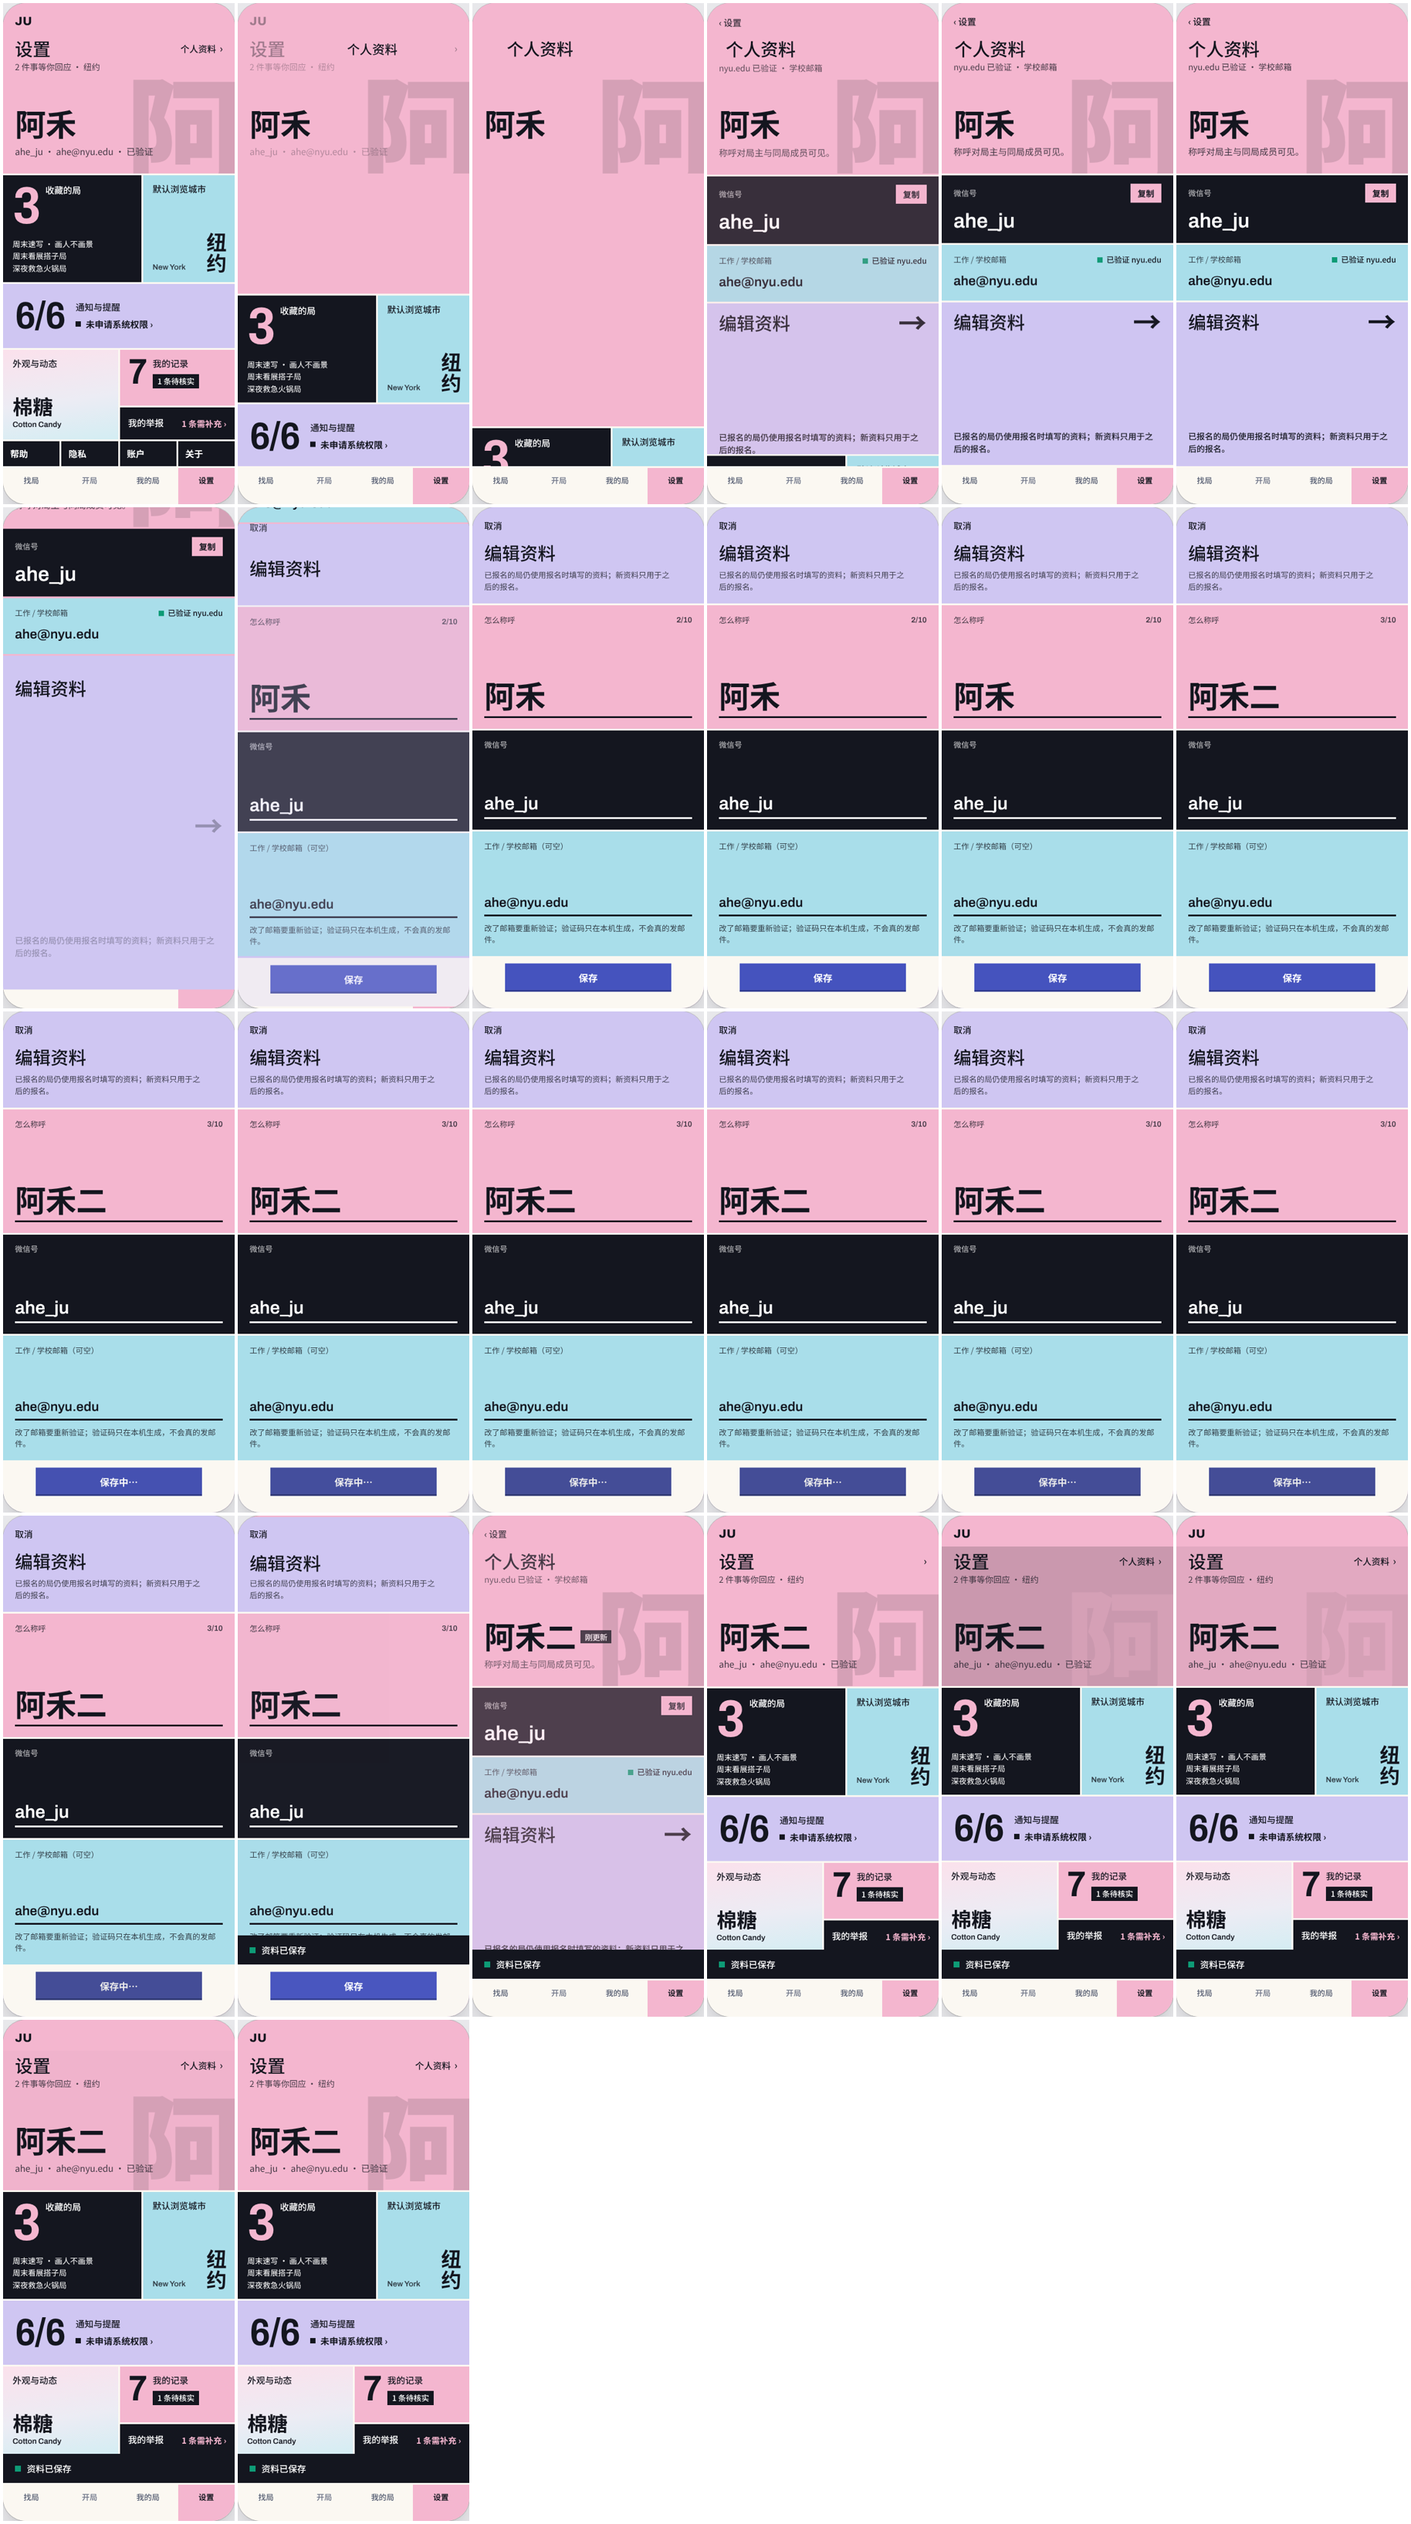
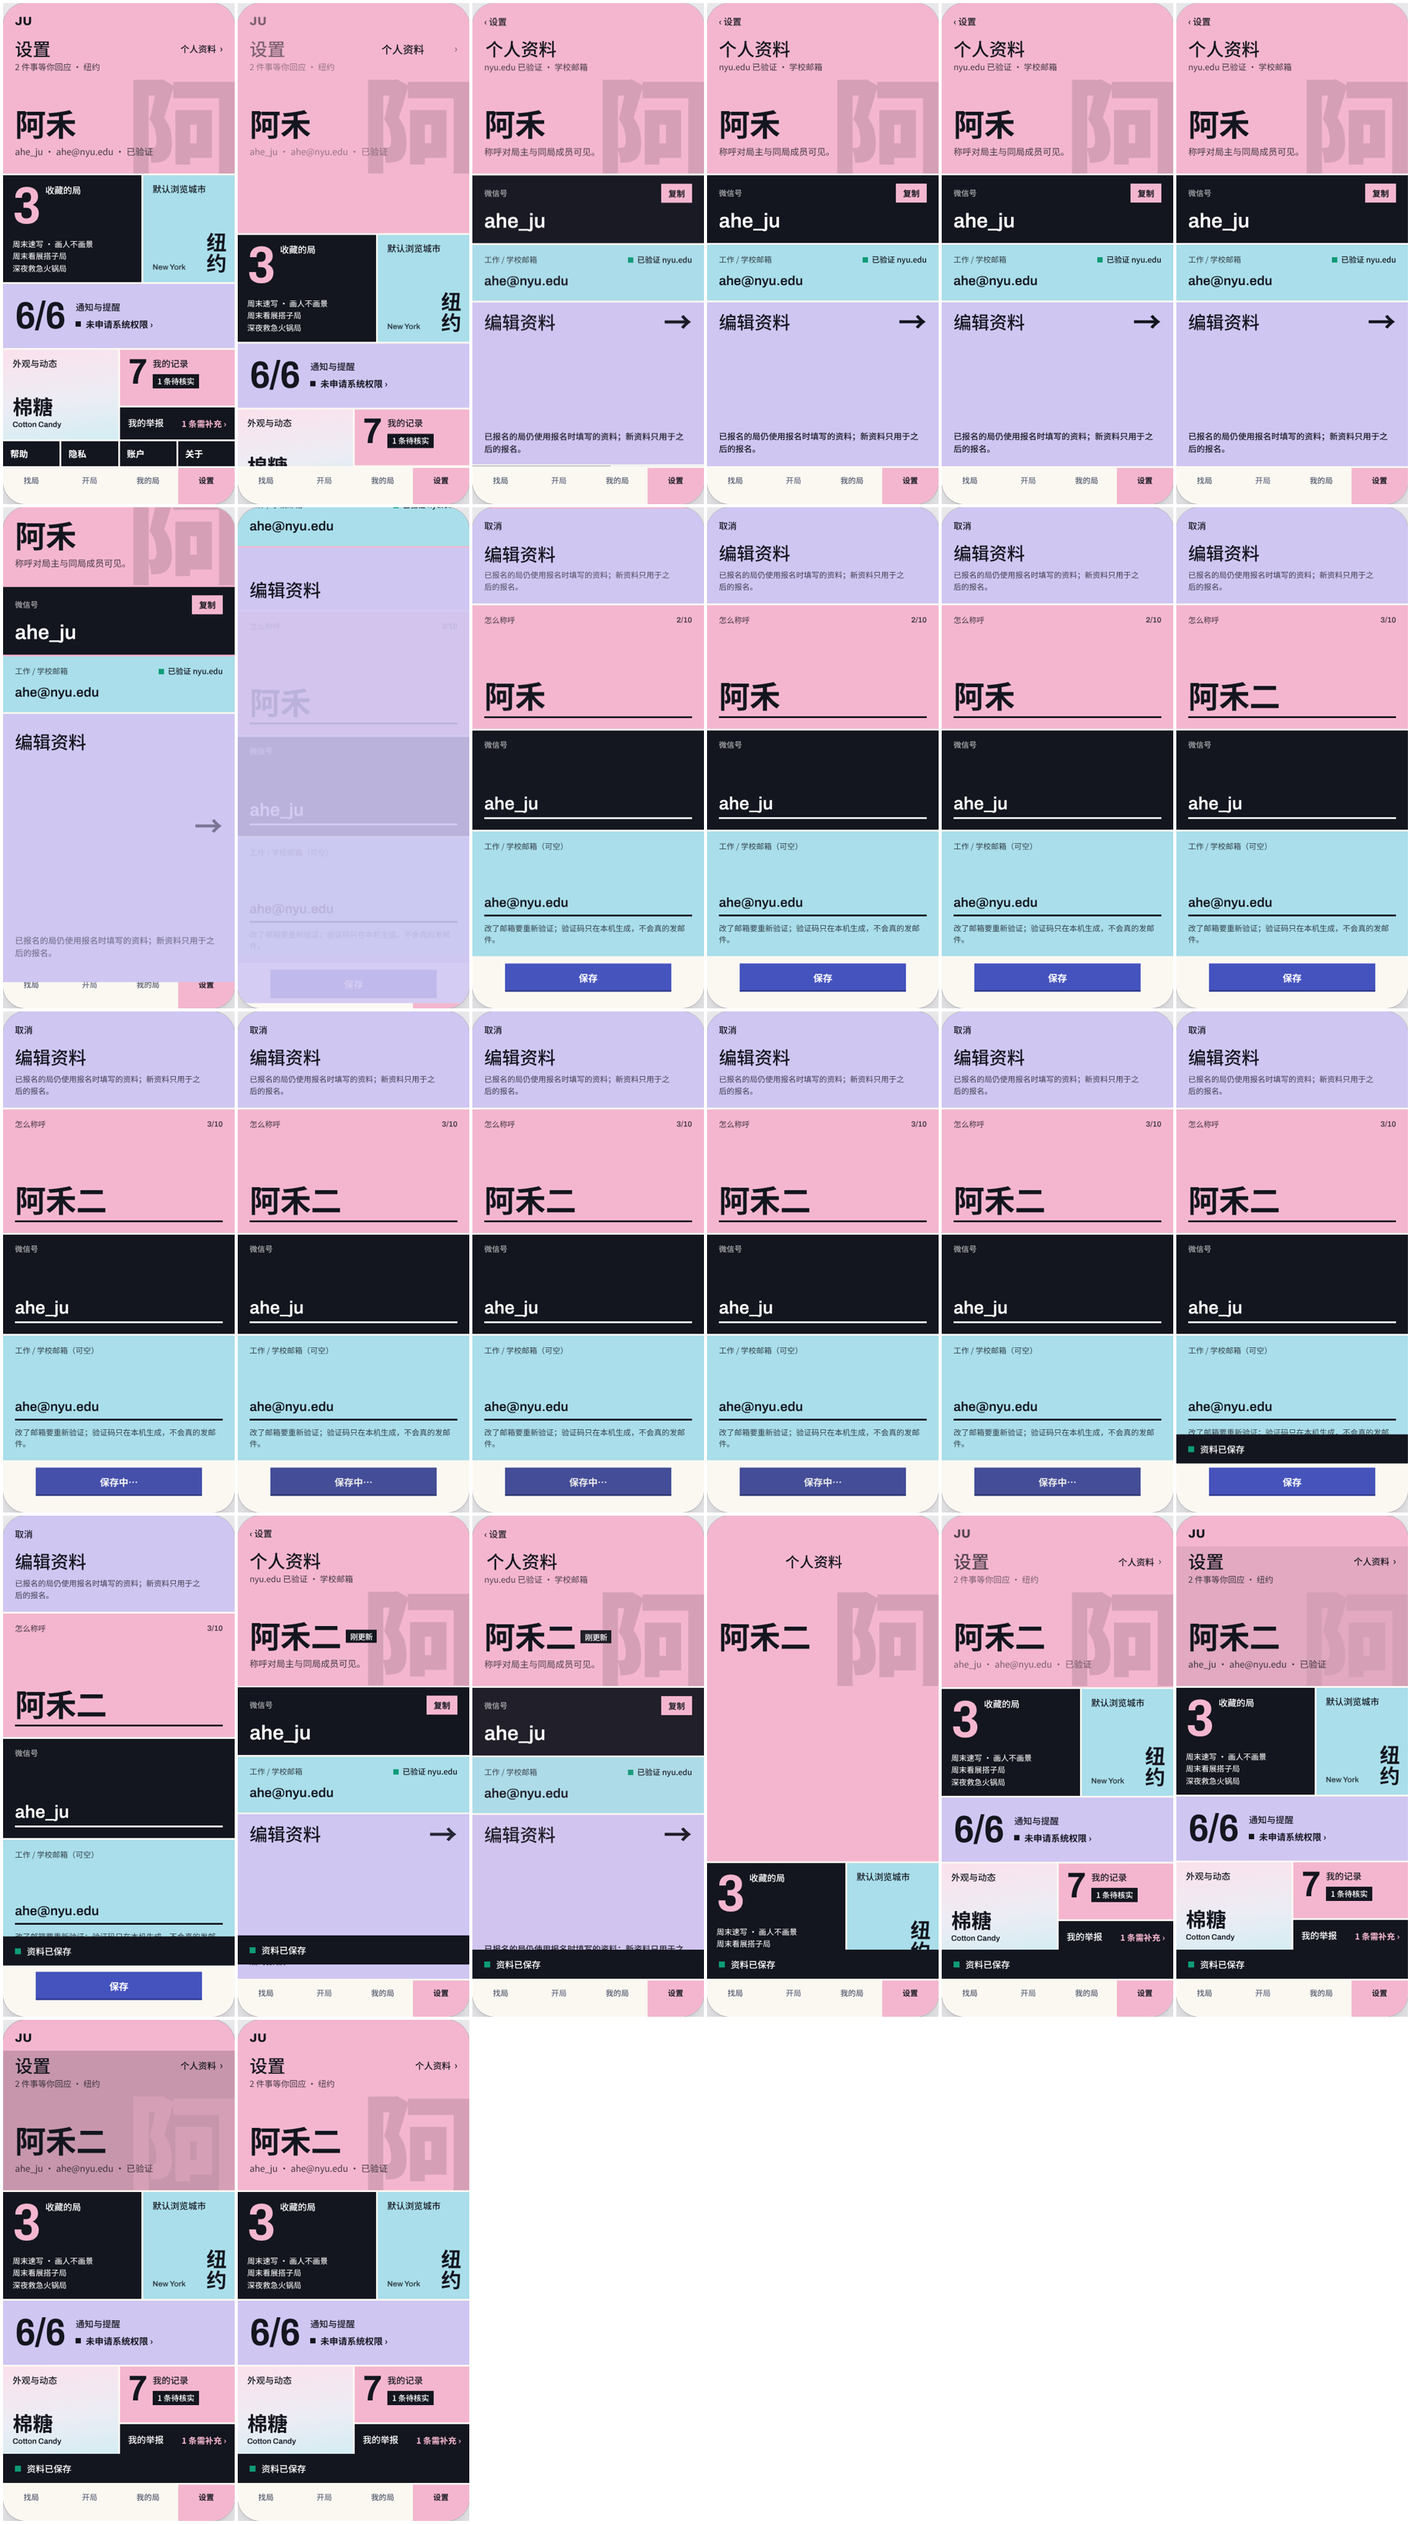
Settings R2: S04 and S08 stage 1 reviewed by the lead (S04 approved; S08 approved with a structural note); in-flight files
Claude-Session: https://claude.ai/code/session_01HHMV8n5dsCb7GnB9ZyBH3p

diff --git a/settings-r2/concepts/src/S10.dc.html b/settings-r2/concepts/src/S10.dc.html
@@ -84,7 +84,8 @@ body{margin:0}
 .st-pile .s10-pl{opacity:1;pointer-events:auto}
 .st-pile .s10-st,.st-pile .s10-more{opacity:0;transform:translateY(-12px);pointer-events:none}
 .st-lift .s10-st,.st-lift .s10-more,.st-drop .s10-st,.st-drop .s10-more{opacity:0;pointer-events:none}
-.s10-anim .s10-st,.s10-anim .s10-pl,.s10-anim .s10-more{transition:opacity calc(160ms * var(--k,1)) ease,transform var(--lift) var(--ease)}
+.s10-anim .s10-st,.s10-anim .s10-pl,.s10-anim .s10-more{transition:opacity calc(110ms * var(--k,1)) ease,transform var(--lift) var(--ease)}
+.s10-anim .st-pile .s10-pl{transition:opacity calc(160ms * var(--k,1)) ease calc(150ms * var(--k,1))}
 .s10-anim .st-drop .s10-st,.s10-anim .st-drop .s10-more{opacity:1;transition:opacity calc(160ms * var(--k,1)) ease calc(160ms * var(--k,1))}
 .s10-L5 .s10-more{position:absolute;left:24px;right:24px;top:66px;display:flex;flex-wrap:wrap;gap:0 20px}
 .s10-more button{height:40px;font-size:15px;font-weight:500;color:var(--ink);display:flex;align-items:center}
@@ -104,7 +105,7 @@ body{margin:0}
 .s10-L0:not(.st-home):not(.st-pile) .s10-face .s10-name{visibility:hidden}
 .st-lift .s10-face .s10-rest{opacity:0;pointer-events:none}
 .st-pile .s10-face{opacity:0;pointer-events:none}
-.s10-anim .s10-face,.s10-anim .s10-face .s10-rest{transition:opacity calc(140ms * var(--k,1)) ease}
+.s10-anim .s10-face,.s10-anim .s10-face .s10-rest{transition:opacity calc(80ms * var(--k,1)) ease}
 .s10-anim .st-drop .s10-face .s10-rest{transition:opacity calc(160ms * var(--k,1)) ease calc(140ms * var(--k,1))}
 .st-lift .s10-face,.st-drop .s10-face{pointer-events:none}
 /* ---- a lifted sheet becomes the page: header (30/500 + 14, collapsing to 18 in the tool row) + its own scroller ---- */
@@ -120,7 +121,8 @@ body{margin:0}
 /* page phases (controller classes): the page arrives with the sheet; its name starts exactly where the strip's name was */
 .s10-pgc{transition:transform var(--lift) var(--ease),opacity calc(200ms * var(--k,1)) ease}
 .s10-pgr{transition:opacity calc(220ms * var(--k,1)) ease calc(110ms * var(--k,1))}
-.s10-pg.is-top.ph-enter .s10-ph{opacity:0}
+.s10-pg.is-top.ph-enter .s10-ph{opacity:0;transition:none}
+.s10-lifted.s10-anim .s10-pg.is-top .s10-ph{transition:opacity calc(180ms * var(--k,1)) ease calc(150ms * var(--k,1))}
 .s10-pg.is-top.ph-enter .s10-pgc{transform:translateY(var(--pg-off,0px));transition:none}
 .s10-pg.is-top.ph-enter .s10-pgr{opacity:0;transition:none}
 .s10-pg.is-top.ph-exit .s10-ph{opacity:0;transition-duration:calc(120ms * var(--k,1))}
@@ -152,7 +154,7 @@ body{margin:0}
 .s10-deck{position:relative;display:flex;flex-direction:column;min-height:calc(var(--ph,844px) - var(--top) - var(--pileb) - 116px);padding-top:6px;transition:transform var(--lift) var(--ease)}
 .s10-pge.ph-enter .s10-deck{transform:translateY(calc(var(--ph,844px) - 380px));transition:none}
 .s10-pge.ph-exit .s10-deck{transform:translateY(calc(var(--ph,844px) - 380px))}
-.s10-fs{position:relative;margin-top:-28px;padding:20px 24px 40px;border-radius:28px 28px 0 0;background-color:var(--fc);box-shadow:var(--sheet-shadow),inset 0 1px 0 rgba(255,255,255,.55);transition:background-color var(--env)}
+.s10-fs{position:relative;margin-top:-28px;padding:20px 24px 46px;border-radius:28px 28px 0 0;background-color:var(--fc);box-shadow:var(--sheet-shadow),inset 0 1px 0 rgba(255,255,255,.55);transition:background-color var(--env)}
 .s10-fs:first-child{margin-top:0}
 .s10-fs1{--fc:var(--c1);z-index:1}.s10-fs2{--fc:var(--c2);z-index:2}.s10-fs3{--fc:var(--c3);z-index:3}
 .s10-fa{--fc:#fff;z-index:4;flex:1 0 auto;padding:22px 24px 24px;display:flex;flex-direction:column;align-items:center;position:sticky;bottom:0}
@@ -200,7 +202,7 @@ body{margin:0}
 @keyframes s10-rise{from{transform:translateY(105%)}to{transform:none}}
 @keyframes s10-fade{from{opacity:0}to{opacity:1}}
 /* ---- toast: a thin ink sheet above the pile / nav ---- */
-.s10-toast{position:absolute;left:24px;right:24px;bottom:calc(var(--navh) + 14px);z-index:90;min-height:46px;padding:12px 18px;border-radius:16px;background:rgba(20,22,31,.94);color:#fff;font-size:15px;line-height:1.45;box-shadow:0 12px 26px -14px rgba(20,22,31,.6);animation:s10-toast calc(260ms * var(--k,1)) var(--ease) both}
+.s10-toast{position:absolute;left:24px;right:24px;bottom:calc(var(--navh) + 14px);z-index:90;min-height:46px;padding:12px 18px;border-radius:16px;background:rgba(20,22,31,.94);color:#fff;font-size:15px;line-height:1.45;box-shadow:0 12px 26px -14px rgba(20,22,31,.6);animation:s10-toast calc(260ms * var(--k,1)) var(--ease) both;transition:bottom var(--lift) var(--ease)}
 .s10-lifted .s10-toast,.s10-start .s10-toast,.s10-drop .s10-toast{bottom:calc(var(--pileb) + 14px)}
 .s10-toast.k-error{background:#3a0d16}
 @keyframes s10-toast{from{opacity:0;transform:translateY(16px)}to{opacity:1;transform:none}}
@@ -238,11 +240,11 @@ body{margin:0}
                   <header class="s10-ph" data-header><button type="button" class="s10-bk" data-act="back" onClick="{{c.nav.back}}"><svg viewBox="0 0 24 24" aria-hidden="true"><path d="M15 5l-7 7 7 7" fill="none" stroke="currentColor" stroke-width="2.2" stroke-linecap="round" stroke-linejoin="round"></path></svg>设置</button><h2 class="s10-ph-t">个人资料</h2><p class="s10-ph-m">{{x.profMeta}}</p></header>
                   <div class="s10-sc2" data-scroller="profile" onScroll="{{c.nav.onScroll}}">
                     <div class="s10-pgc">
-                      <p class="s10-name" style="font-size:{{x.nameSize}}px">{{c.you.name}}<sc-if value="{{c.you.savedName}}"><span class="s10-fresh">刚更新</span></sc-if></p>
+                      <p class="s10-name" style="font-size:{{x.nameSize}}px">{{c.you.name}}<sc-if value="{{x.freshName}}"><span class="s10-fresh">刚更新</span></sc-if></p>
                       <div class="s10-pgr">
                         <dl class="s10-facts">
-                          <div class="s10-fact"><dt>微信号</dt><dd><span class="v">{{c.you.wxLabel}}</span><sc-if value="{{c.you.wx}}"><button type="button" class="s10-link" data-act="copy" onClick="{{c.you.copyWx}}">复制</button></sc-if><sc-if value="{{c.you.savedWx}}"><span class="s10-fresh">刚更新</span></sc-if></dd><sc-if value="{{c.you.copyFail}}"><dd class="s10-cpf">{{x.copyFailInline}}：{{c.you.copyFail}}</dd></sc-if></div>
-                          <div class="s10-fact"><dt>工作 / 学校邮箱</dt><dd><span class="v">{{x.mailFull}}</span><span class="{{x.mailStateCls}}">{{x.mailState}}</span><sc-if value="{{c.you.savedEmail}}"><span class="s10-fresh">刚更新</span></sc-if></dd></div>
+                          <div class="s10-fact"><dt>微信号</dt><dd><span class="v">{{c.you.wxLabel}}</span><sc-if value="{{c.you.wx}}"><button type="button" class="s10-link" data-act="copy" onClick="{{c.you.copyWx}}">复制</button></sc-if><sc-if value="{{x.freshWx}}"><span class="s10-fresh">刚更新</span></sc-if></dd><sc-if value="{{c.you.copyFail}}"><dd class="s10-cpf">{{x.copyFailInline}}：{{c.you.copyFail}}</dd></sc-if></div>
+                          <div class="s10-fact"><dt>工作 / 学校邮箱</dt><dd><span class="v">{{x.mailFull}}</span><span class="{{x.mailStateCls}}">{{x.mailState}}</span><sc-if value="{{x.freshMail}}"><span class="s10-fresh">刚更新</span></sc-if></dd></div>
                         </dl>
                         <p class="s10-snap">{{x.snapNote}}</p>
                         <button type="button" class="s10-btn" data-act="edit" data-origin="edit" onClick="{{c.nav.go.profile-edit}}">编辑资料</button>
@@ -449,6 +451,9 @@ class Component extends DCLogic {
     x.mailFull = you.email || '未填写';
     x.mailState = you.email ? (you.verified ? '已验证' : '未验证') : '';
     x.mailStateCls = you.verified ? 'ok' : 'no';
+    /* 刚更新 marks the changed value in place only while the save toast is up */
+    var justSaved = !!(c.toast.on && c.toast.kind === 'ok' && you.lastSaved && !you.lastSaved.nothing);
+    x.freshName = justSaved && you.savedName; x.freshWx = justSaved && you.savedWx; x.freshMail = justSaved && you.savedEmail;
     x.snapNote = JUS.COPY.snapshotNote; x.copyFailInline = JUS.COPY.copyFailInline;
     /* strips */
     var favs = c.fav.active.slice().sort(function (a, b) { return a.event.iso < b.event.iso ? -1 : 1; }); var first = favs[0] || c.fav.rows[0];

diff --git a/settings-r2/concepts/src/S02.dc.html b/settings-r2/concepts/src/S02.dc.html
@@ -85,7 +85,7 @@ body{margin:0}
 .s02-tab{position:relative;z-index:1;flex:1 1 0;border:0;background:none;padding:0;font:500 15px/1 var(--sans);color:var(--sub-env);cursor:pointer}
 .s02-tab.on{color:var(--ink);font-weight:600}
 .s02-tab.on::after{content:"";position:absolute;left:50%;bottom:13px;width:5px;height:5px;margin-left:-2.5px;border-radius:50%;background:var(--ink)}
-.s02-tab.off{opacity:.55}
+.s02-tab.off span{opacity:.55}
 
 /* ---- rail: the white tongue (under the glyphs) + hit targets (above everything) ---- */
 .s02-tl{position:absolute;left:0;top:0;bottom:0;width:calc(var(--rail) + 4px);z-index:1;pointer-events:none}
@@ -201,8 +201,8 @@ body{margin:0}
 @keyframes s02-c2-out{0%,36%{opacity:0;transform:translate(-52px,var(--st,0px)) scale(.5)}100%{opacity:1;transform:none}}
 @keyframes s02-fo{0%{opacity:1;transform:none}22%,100%{opacity:0;transform:translateX(-16px)}}
 @keyframes s02-vo{0%{opacity:1;transform:none}20%,100%{opacity:0;transform:translateX(-24px)}}
-@keyframes s02-fi{0%,48%{opacity:0;transform:translateX(-16px)}100%{opacity:1;transform:none}}
-@keyframes s02-vi{0%,56%{opacity:0;transform:translateX(-24px)}100%{opacity:1;transform:none}}
+@keyframes s02-fi{0%,40%{opacity:0;transform:translateX(-16px)}100%{opacity:1;transform:none}}
+@keyframes s02-vi{0%,44%{opacity:0;transform:translateX(-24px)}100%{opacity:1;transform:none}}
 @keyframes s02-dot-in{from{transform:none}to{transform:translate(-66px,calc(var(--st,0px) + 4px)) scale(.75)}}
 @keyframes s02-dot-out{from{transform:translate(-66px,calc(var(--st,0px) + 4px)) scale(.75)}to{transform:none}}
 @keyframes s02-tg-in{0%,50%{opacity:0;transform:translateY(calc(var(--g,0) * 60px)) scaleX(.15)}100%{opacity:1;transform:translateY(calc(var(--g,0) * 60px)) scaleX(1)}}
@@ -437,7 +437,7 @@ body{margin:0}
 
       <nav class="s02-root" aria-label="JU">
         <div class="s02-rootbg" aria-hidden="true"><i class="s02-r s02-r-cotton"></i><i class="s02-r s02-r-halo"></i><i class="s02-r s02-r-sunset"></i></div>
-        <sc-for list="{{rootNav}}" as="t" hint-placeholder-count="4"><button type="button" class="s02-tab {{t.cls}}" aria-current="{{t.cur}}" aria-disabled="{{t.dis}}" onClick="{{t.go}}">{{t.label}}</button></sc-for>
+        <sc-for list="{{rootNav}}" as="t" hint-placeholder-count="4"><button type="button" class="s02-tab {{t.cls}}" aria-current="{{t.cur}}" aria-disabled="{{t.dis}}" onClick="{{t.go}}"><span>{{t.label}}</span></button></sc-for>
       </nav>
       <div class="s02-ju">JU</div>
 
@@ -613,15 +613,15 @@ JUS.mixin(Component);
 (function (p) {
   var base = p.scrubTo;
   p.scrubTo = function (v) {
-    base.call(this, v);
-    var r = this.rootRef && this.rootRef.current; if (!r || !r.getAnimations) return;
-    r.getAnimations({ subtree: true }).forEach(function (a) {
-      try {
-        if (v == null) { a.play(); return; }
-        var d = a.effect && a.effect.getTiming ? a.effect.getTiming().duration : 0;
-        a.pause(); if (typeof d === 'number' && d > 0) a.currentTime = (+v / 100) * d;
-      } catch (e) { }
-    });
+    base.call(this, v);                       /* sets review.paused → the panel's .paused class holds every CSS animation */
+    if (v == null) return;                    /* release: removing .paused resumes them; nothing is handed to script control */
+    var self = this;
+    setTimeout(function () {                  /* after the re-render, seek only (no play()/pause(), which would detach them from CSS) */
+      var r = self.rootRef && self.rootRef.current; if (!r || !r.getAnimations) return;
+      r.getAnimations({ subtree: true }).forEach(function (a) {
+        try { var d = a.effect && a.effect.getTiming ? a.effect.getTiming().duration : 0; if (typeof d === 'number' && d > 0) a.currentTime = (+v / 100) * d; } catch (e) { }
+      });
+    }, 0);
   };
 })(Component.prototype);
 </script>

diff --git a/settings-r2/evidence/S02/stage1/widths/tile.py b/settings-r2/evidence/S02/stage1/widths/tile.py
@@ -1,0 +1,9 @@
+import os,sys
+from PIL import Image, ImageDraw
+d='/home/user/JU/settings-r2/evidence/S02/stage1/widths'; fs=sorted(f for f in os.listdir(d) if f.startswith('f') and f.endswith('.png'))
+cols=3; W=440; H=950; pad=6
+rows=(len(fs)+cols-1)//cols
+sh=Image.new('RGB',(cols*(W+pad)+pad, rows*(H+pad+18)+pad),(230,228,224)); dr=ImageDraw.Draw(sh)
+for i,f in enumerate(fs):
+    im=Image.open(os.path.join(d,f)); x=pad+(i%cols)*(W+pad); y=pad+(i//cols)*(H+pad+18); dr.text((x+2,y+2),f[4:-4],fill=(50,50,50)); sh.paste(im,(x,y+18))
+sh.save(os.path.join(d,'sheet.png'))
